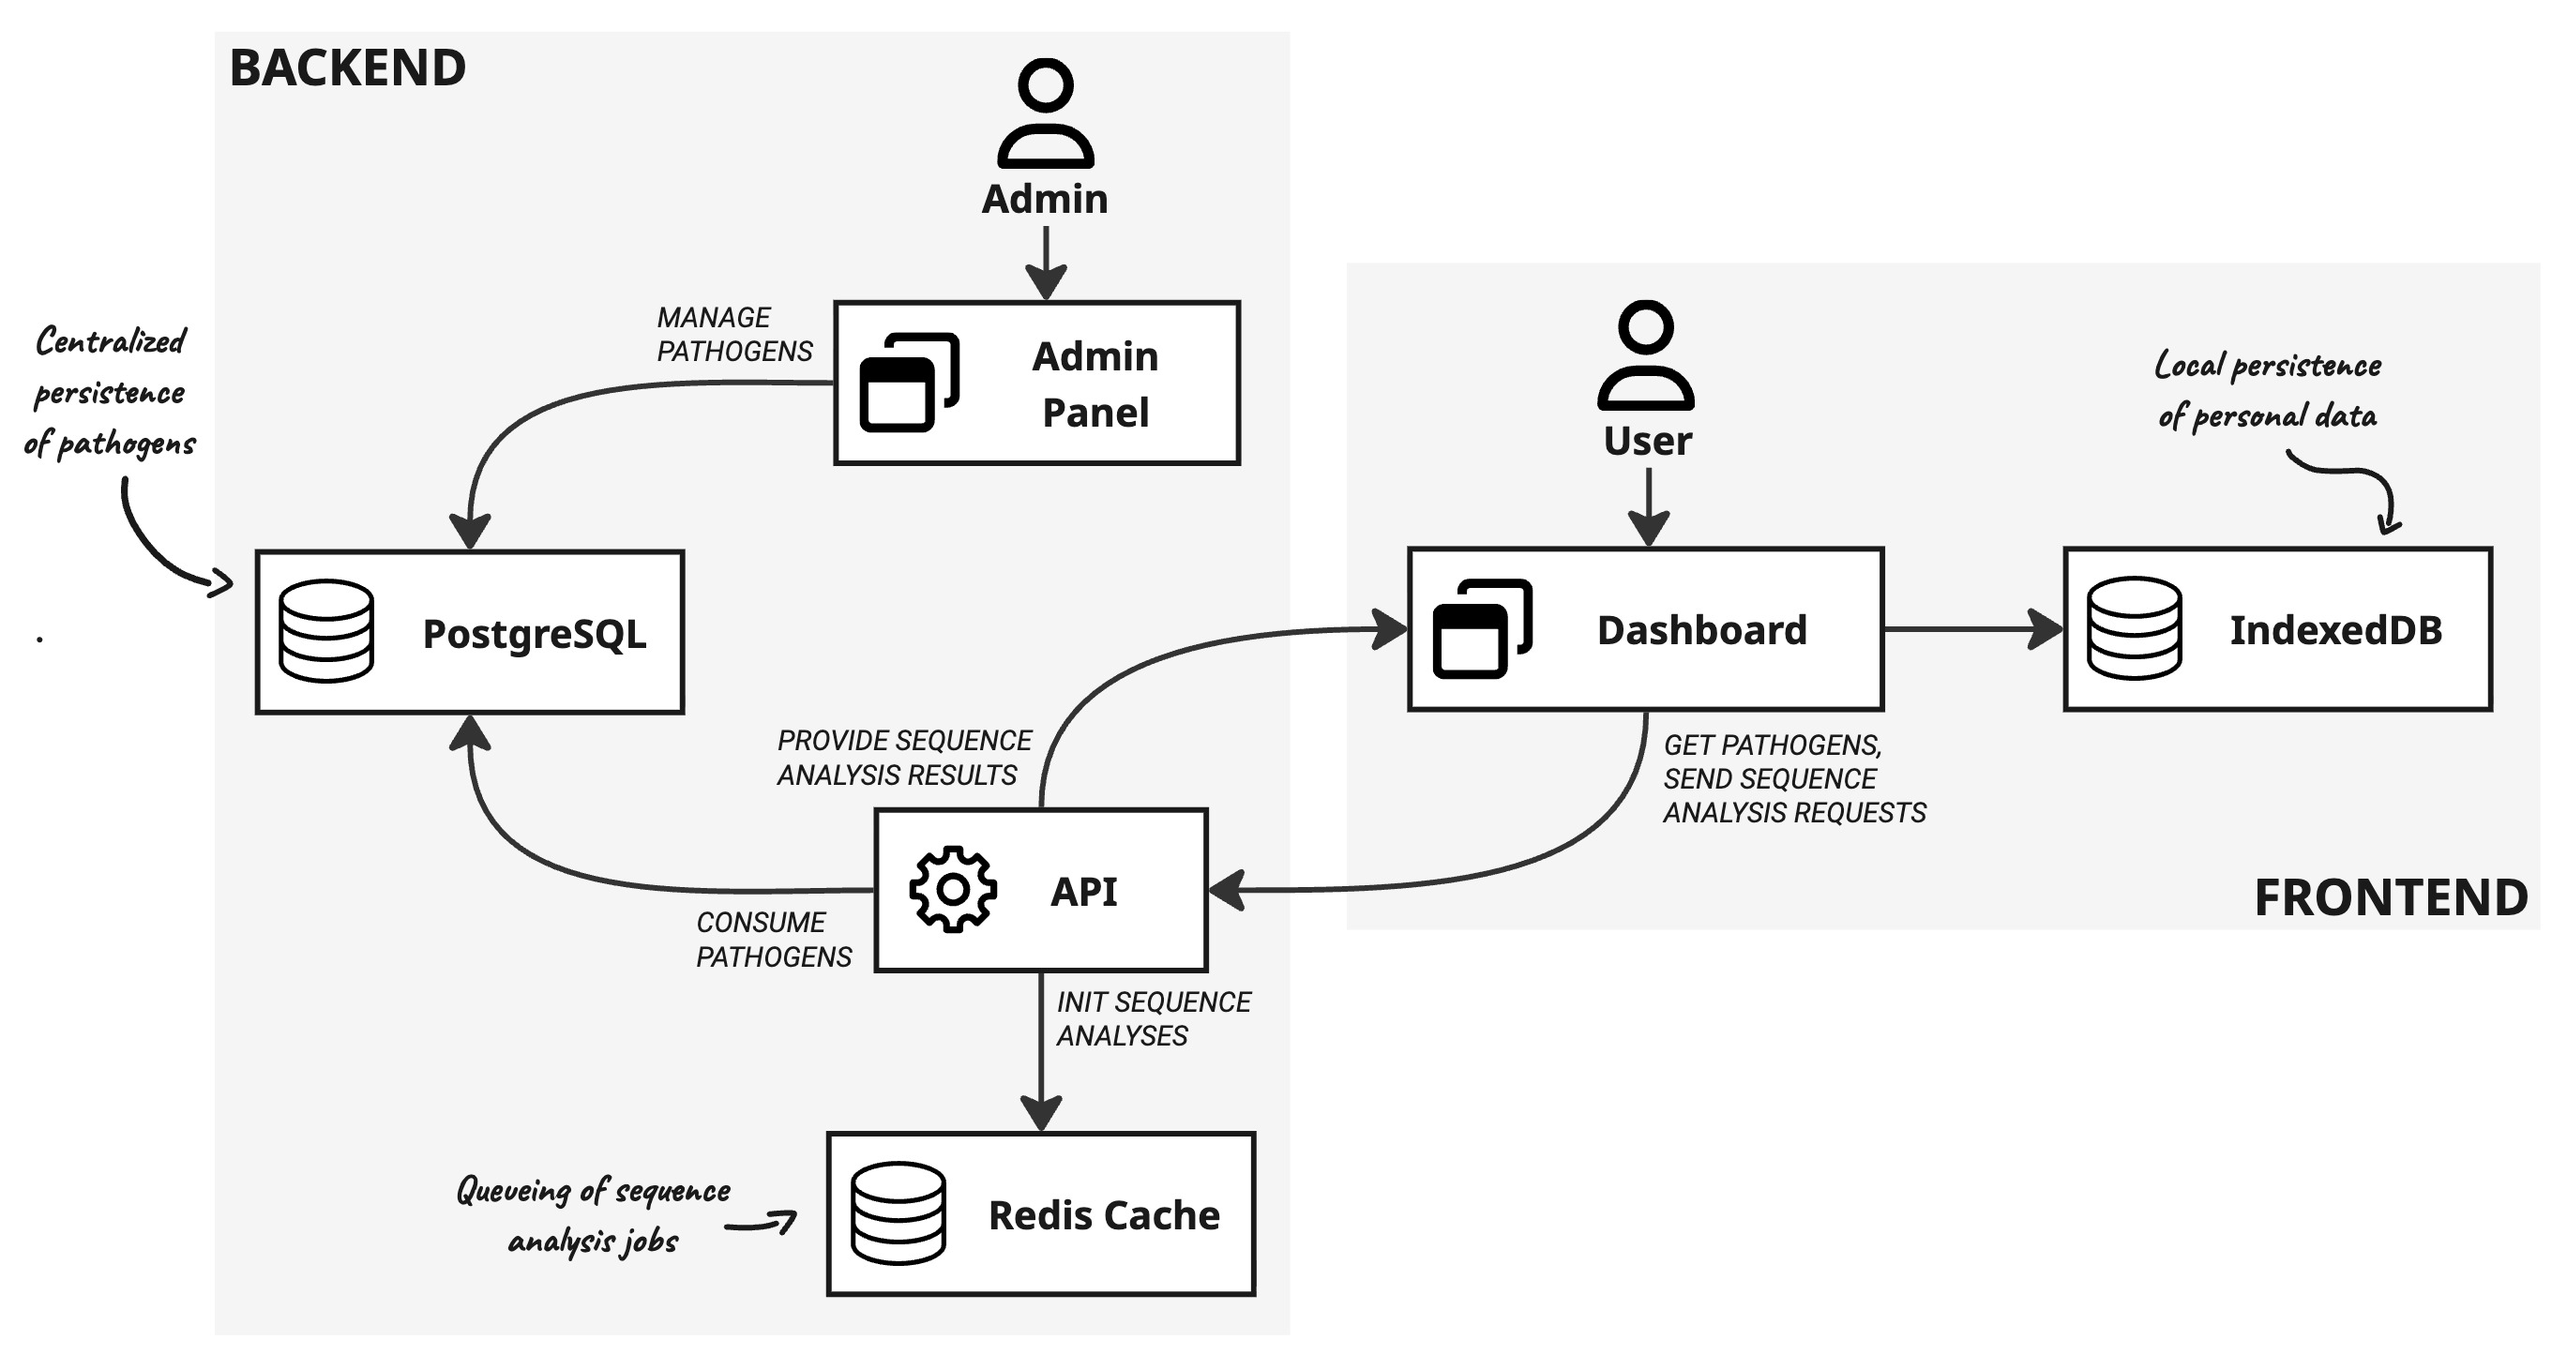
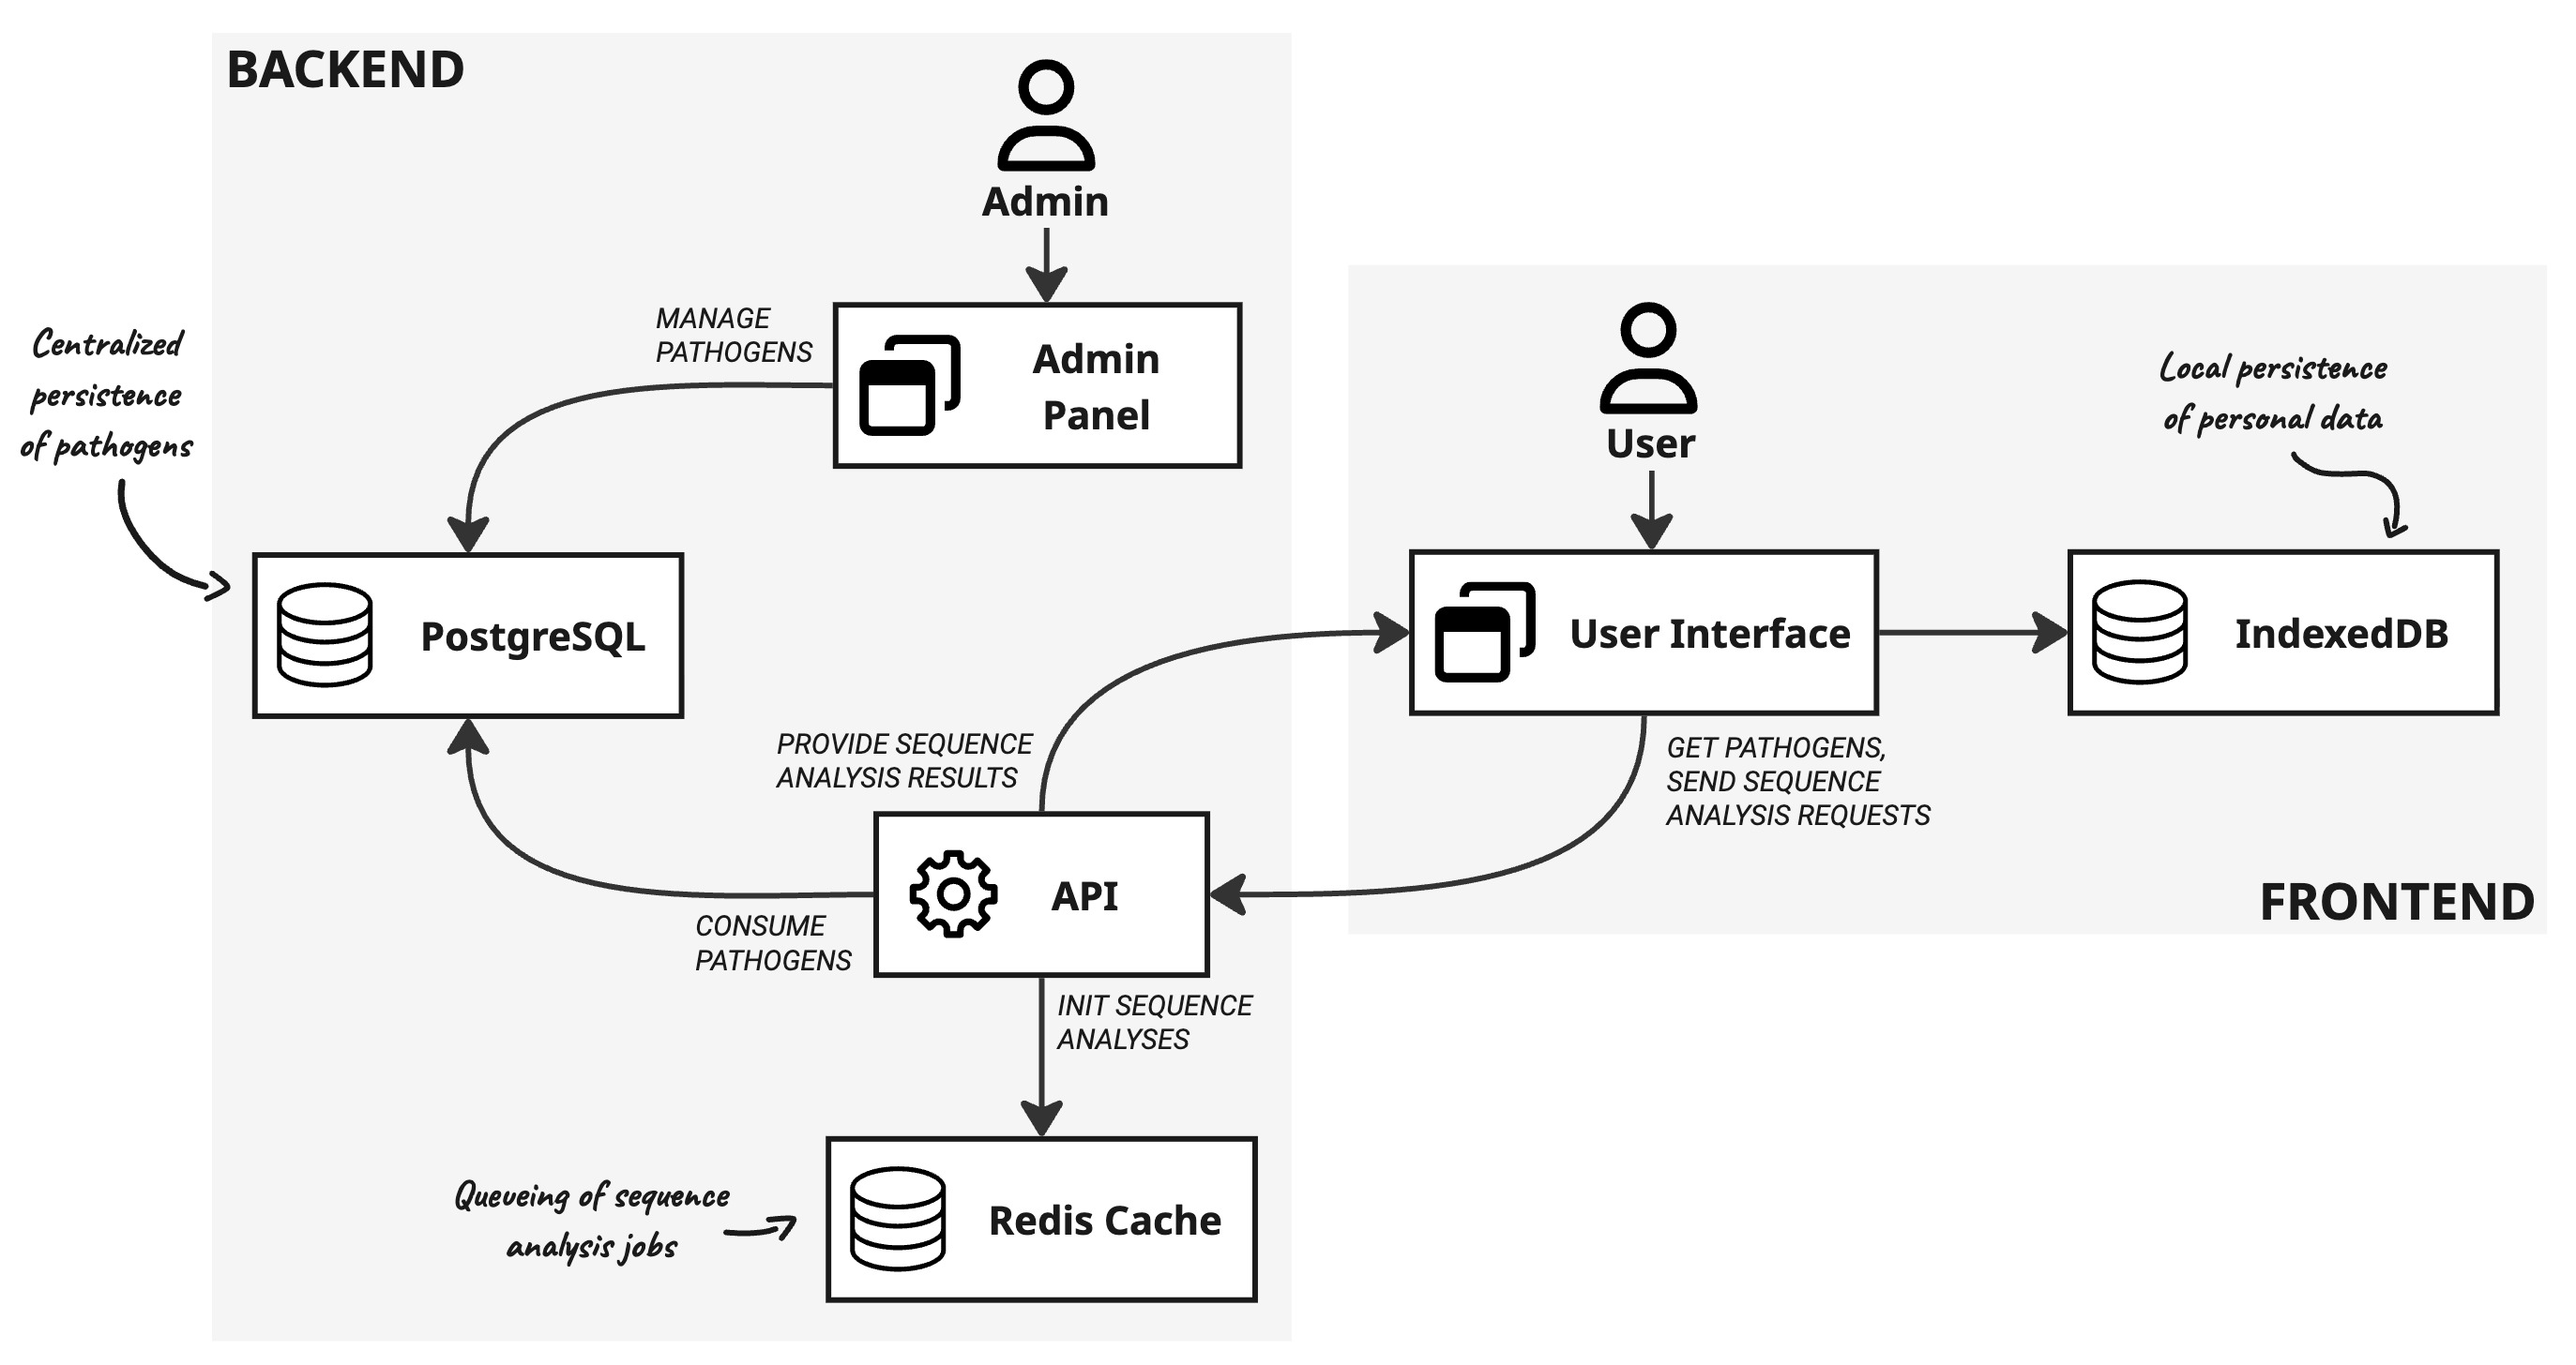
docs: add docker deployment and api structure

diff --git a/documentation/docs/development/system_architecture.md b/documentation/docs/development/system_architecture.md
@@ -12,9 +12,10 @@ sidebar_position: 3
 
 ![System Components](/img/developers/system_architecture/system_components.jpg "System Components")
 
-## Frontend
+## Components
+### Frontend
 
-### Dashboard
+#### User Interface
 
 :::info Technologies
 React, Zustand
@@ -33,9 +34,11 @@ The React application is divided into separate domains to create a well-structur
 | Help              | Functionalities and components associated with the help page of the application.                                                                                                                      |
 | Tutorial          | Functionalities and components associated with the tutorial module of the application.                                                                                                                |
 
-The application uses IndexedDB to manage the local browser database. As the tutorial relies on a static dataset, two IndexedDB instances have been integrated: `gentrain` and `gentrain_example`. While the latter is only active during the tutorial, the former is active during productive usage of the application.
+The application uses IndexedDB to manage the local browser database. As the tutorial relies on a static dataset, two IndexedDB instances have been integrated: `gentrain` and `gentrain_example`. While the latter is only active during the tutorial, the former is active during productive usage of the application. Additionally state-management solution Zustand is used for data management during runtime. Zustand orchestrates the application state within so-called stores. In GENTRAIN, these stores mirror the domains of the React application, except for the Help domain, which does not have a corresponding store. The following graph illustrates the concrete data sources of the React application.
 
-### IndexedDB
+![User Interface Data Sources](/img/developers/system_architecture/ui_data_sources.jpg "User Interface Data Sources")
+
+#### IndexedDB
 
 This low-level API offers powerful and efficient database functionality for client-side storage. Personal data is stored solely within the web browser's local database. As IndexedDB does not support automatic data deletion, the application provides two options: data can be deleted either after the 24-hour TTL has expired (only possible during productive usage or when the application is loaded again), or when the tab/browser is reloaded or closed (beforeunload event). The former is activated by default, but it is also possible to disable both options.
 
@@ -166,17 +169,28 @@ On page load, the pathogens in the client-side database are compared with the pe
         </div>
 </details>
 
-## Backend 
+### Backend 
 
-### API
+#### API
 
 :::info Technologies
 Python (Flask), Flask-SocketIO, RQ, Prisma
 :::
 
-This is an API for backend communication, primarily offering pathogen resources and file downloads, such as example data and pathogen schemes. Additionally, it includes a WebSocket server to handle events during sequence analysis.
+This API facilitates communication with the backend and primarily offers pathogen resources and file downloads, including example data and pathogen schemes. To ensure tasks are processed reliably, long-running tasks are processed within Redis queues. This means that these tasks will be processed even in high-stress situations. A WebSocket server (SocketIO) is therefore integrated into the API to facilitate bidirectional, event-driven communication during sequence analysis. Redis queues for viral and bacterial sequence analyses are orchestrated using Supervisord and can be configured in the file `/backend/api/workers/supervisor.conf` according to current requirements and server specifications.
 
-### Admin Panel
+![API Structure](/img/developers/system_architecture/api_structure.jpg "API Structure")
+
+The Python application is divided into two domains, as shown in the following table.
+
+
+| Domain                          | Description                                                                                                                                        |
+| ------------------------------- | -------------------------------------------------------------------------------------------------------------------------------------------------- |
+| Pathogen Registry               | Operations related to pathogens. This includes retrieving information about persisted pathogens and downloading pathogen schemes and example data. |
+| Sequence Analysis               | Sequence analysis orchestration. This involves managing websocket events, executing sequence analysis jobs, and preparing sequence analysis responses. |
+
+
+#### Admin Panel
 
 :::info Technologies
 NodeJS + React (AdminJS), Prisma
@@ -184,11 +198,11 @@ NodeJS + React (AdminJS), Prisma
 
 A user interface for managing pathogen data, particularly schemes.
 
-### Redis Cache
+#### Redis Cache
 
 Long-running tasks, such as sequence analyses, are managed via Redis job queues and handled by workers. The Redis cache is also used to implement chunking of WebSocket message data by temporarily storing sequence chunks. Furthermore, sequence analyses are persisted for 30 minutes to prevent data loss if users leave the dashboard during processing.
 
-### PostgreSQL
+#### PostgreSQL
 
 Pathogens, admin users and roles are stored in a server-side PostgreSQL database, which can be accessed and managed via the Admin Panel.
 
@@ -262,3 +276,7 @@ Pathogens, admin users and roles are stored in a server-side PostgreSQL database
         </div>
     </div>
 </details>
+
+## Docker Deployment
+
+![Docker Deployment](/img/developers/system_architecture/docker_deployment.jpg "Docker Deployment")
